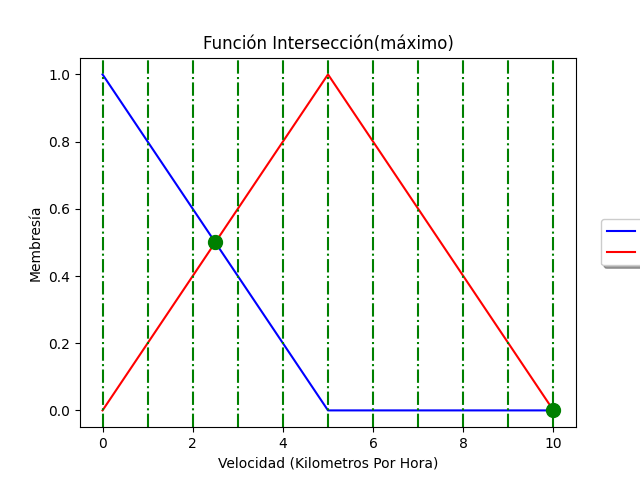
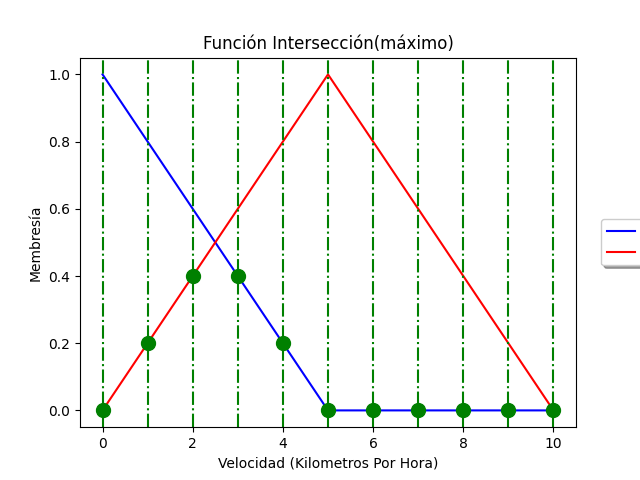
control difuso 2

diff --git a/Tercera Previa /Control difuso/ControlDifuso.py b/Tercera Previa /Control difuso/ControlDifuso.py
@@ -1,0 +1,122 @@
+#Control Difuso
+
+#Importar librerías 
+import numpy as np
+import skfuzzy as fuzz
+import matplotlib.pyplot as plt
+
+#Generar variables del universo
+#Calidad y servicios en rangos [0,10]
+#La propina tiene un rango [0,25] en unidades de puntos porcentaules
+x_calidad = np.arange(0,11,1)
+x_servicio = np.arange(0,11,1)
+x_propina = np.arange (0,26,1)
+
+#Se Generan las respectivas funciones de pertenencia difusa
+calidad_baja = fuzz.trimf(x_calidad,[0,0,5])
+calidad_media = fuzz.trimf(x_calidad,[0,5,10])
+calidad_alta = fuzz.trimf(x_calidad,[5,10,10])
+
+servicio_bajo = fuzz.trimf(x_servicio,[0,0,5])
+servicio_medio = fuzz.trimf(x_servicio,[0,5,10])
+servicio_alto = fuzz.trimf(x_servicio,[5,5,10])
+
+propina_baja = fuzz.trimf(x_propina,[0,0,5])
+propina_media = fuzz.trimf(x_propina,[0,5,10])
+propina_alta = fuzz.trimf(x_propina,[5,10,10])
+
+#Visualización
+fig,(ax0,ax1,ax2) = plt.subplots(nrows = 3, figsize = (8,9))
+ax0.plot(x_calidad,calidad_baja,'b',linewidth =1.5, label = 'Mala')
+ax0.plot(x_calidad,calidad_media,'g',linewidth =1.5, label = 'Aceptable')
+ax0.plot(x_calidad,calidad_alta,'r',linewidth =1.5, label = 'Buena')
+ax0.set_title ('Calidad de la comida')
+ax0.legend()
+
+ax1.plot(x_servicio,servicio_bajo,'b',linewidth =1.5, label = 'Malo')
+ax1.plot(x_servicio,servicio_medio,'g',linewidth =1.5, label = 'Aceptable')
+ax1.plot(x_servicio,servicio_alto,'r',linewidth =1.5, label = 'Excelente')
+ax1.set_title ('Calidad del servicio')
+ax1.legend()
+
+ax2.plot(x_propina,propina_baja,'b',linewidth =1.5, label = 'Bajo')
+ax2.plot(x_propina,propina_media,'g',linewidth =1.5, label = 'Medio')
+ax2.plot(x_propina,propina_alta,'r',linewidth =1.5, label = 'Alto')
+ax2.set_title ('Valor de la propina')
+ax2.legend()
+
+#Ocultar las ejes superior / derecho 
+for ax in (ax0, ax1, ax2):
+    ax.spines['top'].set_visible(False)
+    ax.spines['right'].set_visible(False)
+    ax.get_xaxis().tick_bottom()
+    ax.get_yaxis().tick_left()
+plt.tight_layout()
+
+#Necesitamos la activación de nuestras funciones difusa en estos valores 
+nivel_calidad_bajo = fuzz.interp_membership(x_calidad,calidad_baja,6.5)
+nivel_calidad_medio = fuzz.interp_membership(x_calidad,calidad_media,6.5)
+nivel_calidad_alto = fuzz.interp_membership(x_calidad,calidad_alta,6.5)
+nivel_servicio_bajo = fuzz.interp_membership(x_servicio,servicio_bajo,9.8)
+nivel_servicio_medio = fuzz.interp_membership(x_servicio,servicio_medioo,9.8)
+nivel_servicio_alto = fuzz.interp_membership(x_servicio,servicio_alto,9.8)
+
+#Ahora tomamos nuestras reglas y las aplicamos.La regla 1 se refiere a la mala comida o servicio.
+activar_regla1 = np.fmax(nivel_calidad_bajo,nivel_servicio_bajo)
+
+#Ahora aplicamos esto recortando la parte superior de la salida correspondiente 
+#funcion de membresía con 'np.fmin
+activacion_propina_baja = np.fmin(activar_regla1,propina_baja)
+
+#Para la regla 2, conectamos un servicio aceptable con una propina media
+activacion_propina_media = np.fmin(nivel_servicio_medio,propina_media)
+
+#Para la regla 3, conectamos servicio bueno o comida buena con propinas altas
+activar_regla3 = np.fmax(nivel_calidad_alto, nivel_servicio_alto)
+activacion_propina_alta = np.fmin(activar_regla3, propina_alta)
+propina0 = np.zeros_like(x_propina)
+
+#Visualizar lo anterior
+fig,ax0 = plt.subplots(figsize = (8,3))
+ax0.fill_between(x_propina, propina0, activacion_propina_baja,facecolor = 'b',alpha=0.7)
+ax0.plot (x_propina, propina_baja, 'b', linewidth = 0.5, linestyle ='--')
+ax0.fill_between(x_propina,propina0,activacion_propina_media,facecolor = 'g', alpha=0.7)
+ax0.plot (x_propina, propina_media, 'g', linewidth = 0.5, linestyle ='--')
+ax0.fill_between(x_propina,propina0,activacion_propina_alta,facecolor = 'r', alpha=0.7)
+ax0.plot (x_propina, propina_alta, 'r', linewidth = 0.5, linestyle ='--')
+ax0.set_title('Actividad de membresía de salida')
+
+#Cancelar los ejes superior/derecho
+for ax in (ax0)
+    ax.spines['top'].set_visible(False)
+    ax.spines['right'].set_visible(False)
+    ax_get_xaxis().tick_bottom()
+    ax.get_yaxis().tick_left()
+plt.tight_layout()
+
+#Agregar las tres funciones de pertenencia de salida juntas 
+agregado = np.fmax(activacion_propina_baja,
+np.fmax(activacion_propina_media,activacion_propina_alta))
+
+#Calcular el resultado difuso
+propina = fuzz.defuzz(x_propina,agregado,'centroid')
+activacion_propina = fuzz.interp_membership(x_propina,agregado,propina)
+
+#Visualizar lo anterior
+fig, ax0 = plt.subplots(figsize = (8,3))
+ax0.plot (x_propina, propina_baja, 'b', linewidth = 0.5, linestyle ='--')
+ax0.plot (x_propina, propina_media, 'g', linewidth = 0.5, linestyle ='--')
+ax0.plot (x_propina, propina_alta, 'r', linewidth = 0.5, linestyle ='--')
+ax0.fill_between ( x_propina,propina0, agregado, facecolor = 'Orange', alpha = 0.7)
+ax0.plot ( [propina,propina],[0,activacion_propina],'k',linewidth=1.5,alpha = 0.9)
+ax0.set_title('Membresía agregada y resultado (línea)')
+
+#Cancela los ejes superior/derecho
+for ax in (ax0):
+    ax.spines['top'].set_visible(False)
+    ax.spines['right'].set_visible(False)
+    ax.get_xaxis().tick_bottom()
+    ax.get_yaxis().tick_left()
+plt.tight_layout()
+
+

diff --git a/Tercera Previa /Lógica difusa/Interseccion.py b/Tercera Previa /Lógica difusa/Interseccion.py
@@ -30,7 +30,16 @@ plt.axvline(x=8,ymin=0,ymax=10,color="g",linestyle='-.')
 plt.axvline(x=9,ymin=0,ymax=10,color="g",linestyle='-.')
 plt.axvline(x=10,ymin=0,ymax=10,color="g",linestyle='-.')
 
-plt.plot(2.5,0.5,marker='o', markersize=10, color='g')
+plt.plot(0,0,marker='o', markersize=10, color='g')
+plt.plot(1,0.2,marker='o', markersize=10, color='g')
+plt.plot(2,0.4,marker='o', markersize=10, color='g')
+plt.plot(3,0.4,marker='o', markersize=10, color='g')
+plt.plot(4,0.2,marker='o', markersize=10, color='g')
+plt.plot(5,0,marker='o', markersize=10, color='g')
+plt.plot(6,0,marker='o', markersize=10, color='g')
+plt.plot(7,0,marker='o', markersize=10, color='g')
+plt.plot(8,0,marker='o', markersize=10, color='g')
+plt.plot(9,0,marker='o', markersize=10, color='g')
 plt.plot(10,0,marker='o', markersize=10, color='g')
 
 plt.savefig('Interseccion')
